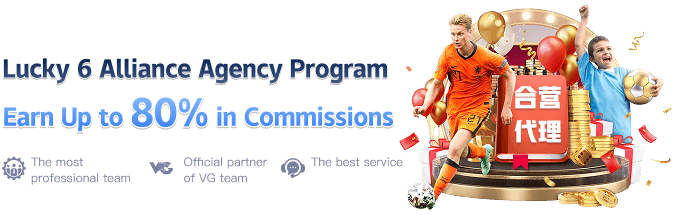
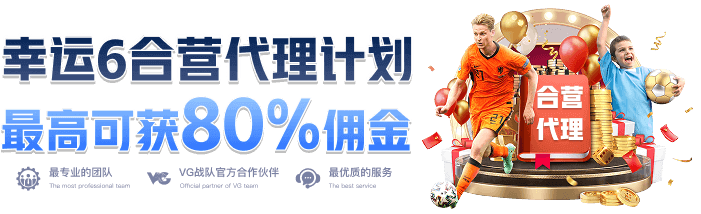
feat: [lk6 h5] Add cn translation to affiliate page

diff --git a/lk6-static-h5/src/i18n/cn.js b/lk6-static-h5/src/i18n/cn.js
@@ -90,7 +90,8 @@ export default {
     verify: "验证",
     download: "下载",
     downloadNow: "立即下载",
-    all: "全部"
+    all: "全部",
+    joinUs: "加入我们"
   },
   deposit: {
     paymentWay: "支付方式",
@@ -927,9 +928,9 @@ export default {
     commissionStructureExample: "以下为佣金占比示例",
     commissionCalculation: "佣金计算",
     commissionCalculationExample: "以下为佣金计算示例",
-    commissionTerm: "Commission Terms & Conditions",
+    commissionTerm: "结算规则",
     contact: {
-      qq: "Lucky6 QQ",
+      qq: "幸运6 QQ",
       telegram: "Telegram",
       skype: "Skype",
       sigua: "Sigua",
@@ -937,50 +938,40 @@ export default {
       email: "Email"
     },
     agentLevel: {
-      brown: "Brown",
-      silver: "Silver",
-      gold: "Gold",
-      diamond: "Diamond",
-      crown: "Crown"
+      brown: "铜牌",
+      silver: "银牌",
+      gold: "金牌",
+      diamond: "钻石",
+      crown: "皇冠"
     },
     table: {
       commissionStructure: {
-        agent: "Agent",
-        profit: "Profit",
-        activeValidMembers: "Active Valid Members",
-        commissionRate: "Commission Rate"
+        agent: "代理",
+        profit: "盈利",
+        activeValidMembers: "有效活跃会员",
+        commissionRate: "佣金比例"
       },
       commissionCalculation: {
-        winLose: "Total Game Win/Loss",
-        platformFee: "Platform Fee",
-        platformFeeFormula: "Platform Fee = Total Game Win/Loss × {rate}",
-        bonus: "Bonuses",
-        bonusFormula: "Rebates, bonuses, deposit/withdrawal fees can be viewed in the details",
-        netProfit: "= Net Profit",
-        commissionRate: "× Commission Rate",
-        totalCommission: "= Total Commission"
+        winLose: "平台输赢",
+        platformFee: "- 平台费",
+        platformFeeFormula: "平台费=游戏总输赢 × {rate}",
+        bonus: "- 红利",
+        bonusFormula: "返水，红利，存提手续费后台可见明细",
+        netProfit: "= 净利润",
+        commissionRate: "× 佣金比例",
+        totalCommission: "= 总佣金"
       }
     },
     term: {
       payoutSchedule: {
-        title: "Commission Payout Schedule:",
-        autoPayout:
-          "Commissions are automatically credited to your agent account between the 5th and 10th of each month.",
-        noWagerRequirement: "No wagering requirements apply—commissions can be withdrawn immediately."
+        title: "佣金派发时间：每月5号至10号期间，所有佣金由系统直接发放到代理账户，无需流水，即可提款"
       },
       activeMemberRequirement: {
-        title: "Active Member Requirement:",
-        minimumActiveMembers: "A minimum of five (5) active members per month is required for commission eligibility.",
-        activeMemberDefinition:
-          'An "active player" is defined as a member with a minimum deposit of ≥200 within the month.'
+        title: "每月至少有五个有效活跃会员才能结算佣金，当月存款≥200为一个活跃玩家。"
       },
       promotionRequirement: {
-        title: "Promotion Requirements:",
-        minimumActiveMembers: "Agents must recruit at least three (3) new active members per month.",
-        failureToMeet: "Failure to meet this quota may result in reduced or withheld commissions.",
-        suspensionCondition:
-          "If an agent fails to recruit 10+ new active members over three consecutive months, the account will be suspended.",
-        reactivationCondition: "Reactivation requires contacting customer support."
+        title:
+          "代理推广每月至少需要新注册活跃会员达到3名或以上，如无法达到将视为零推广兴發平台，代理部有权减少或扣除部分佣金，如果三个月累积新增活跃会员未达到十位，将会停用代理账户，需代理联系平台客服重新开启。"
       }
     }
   },

diff --git a/lk6-static-h5/src/pages/AffiliateView.vue b/lk6-static-h5/src/pages/AffiliateView.vue
@@ -1,7 +1,10 @@
 <template>
   <div class="affiliate-container">
     <div class="page-title">
-      <div class="page-title-img"><img src="../assets/images/affiliate/title.png" /></div>
+      <div class="page-title-img">
+        <img v-if="languageVal !== 'en'" src="../assets/images/affiliate/title.png" />
+        <img v-else src="../assets/images/affiliate/title-en.png" />
+      </div>
     </div>
     <div class="page-title-text">
       <span class="page-title-text__stroke">{{ $t("affiliate.agentSupport") }}</span>
@@ -126,10 +129,14 @@
     </div>
     <div class="affiliate-subgroup agent-content-item rule">
       <div style="display: flex; flex-direction: column; align-items: center; justify-self: center; width: 100%">
+        <div class="page-title-text">
+          <span class="page-title-text__stroke">{{ $t("affiliate.commissionTerm") }}</span>
+          <span class="page-title-text__fill">{{ $t("affiliate.commissionTerm") }}</span>
+        </div>
+
         <div class="affiliate-sub">
           <img class="bonus-rabbit" src="../assets/images/affiliate/bonus-rabbit.png" alt="" />
           <div class="affiliate-inner">
-            {{ $t("affiliate.commissionTerm") }}
             <ol>
               <li v-for="(term, key) in terms" :key="key">
                 <ul>
@@ -145,11 +152,13 @@
 </template>
 
 <script setup>
+import { storeToRefs } from "pinia";
 import { userStore } from "../stores/index";
 import { Platform, useQuasar } from "quasar";
 import { useNotify } from "src/hooks/notify.js";
 import { computed, ref } from "vue";
 import { useI18n } from "vue-i18n";
+import { i18nStore } from "src/router/language";
 
 const affCode = sessionStorage.getItem("AFFILIATE_CODE");
 const notify = useNotify();
@@ -169,6 +178,7 @@ const text_copied = ref("");
 const copyinput = ref(null);
 const $q = useQuasar();
 const { t, locale, getLocaleMessage } = useI18n();
+const { languageVal } = storeToRefs(i18nStore());
 
 const contactInfo = computed(() => [
   { icon: "qq-logo.png", label: t("affiliate.contact.qq"), value: "2115894008", download: "https://im.qq.com/index/" },
@@ -267,6 +277,7 @@ const copyText = (text, msgTitle) => {
     color: transparent;
 
     .page-title-text__stroke {
+      --stroke-width: 1px;
       position: absolute;
       top: 0;
       left: 0;
@@ -274,8 +285,9 @@ const copyText = (text, msgTitle) => {
       background: linear-gradient(180deg, #e2ebfa 0%, #ffffff 76.92%);
       -webkit-background-clip: text;
       color: transparent;
-      -webkit-text-stroke: 1px transparent;
-      text-shadow: 1px 0 0 #e2ebfa, -1px 0 0 #ffffff, 0 1px 0 #e2ebfa, 0 -1px 0 #ffffff;
+      -webkit-text-stroke: var(--stroke-width) transparent;
+      text-shadow: var(--stroke-width) 0 0 #e2ebfa, calc(var(--stroke-width) * -1) 0 0 #ffffff,
+        0 var(--stroke-width) 0 #e2ebfa, 0 calc(var(--stroke-width) * -1) 0 #ffffff;
       z-index: 1;
     }
 
